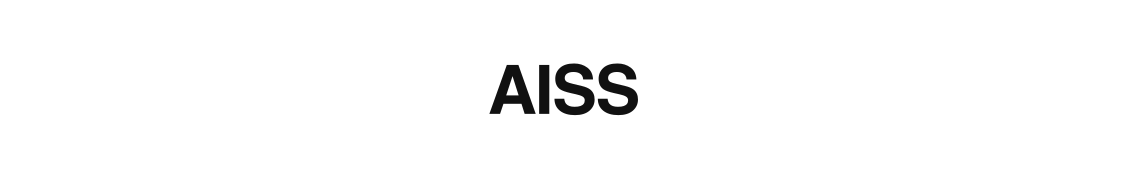
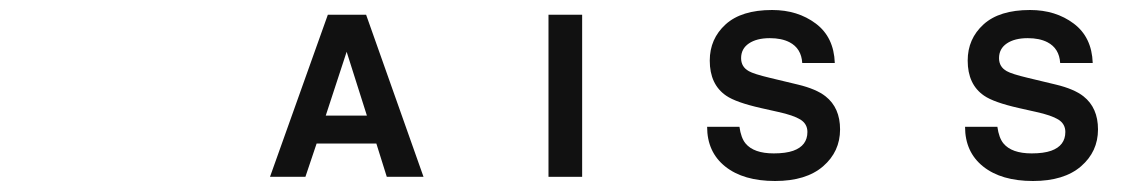
Enlarge AISS social covers and clear LinkedIn profile picture

diff --git a/brand-package/README.md b/brand-package/README.md
@@ -31,4 +31,4 @@ These assets preserve the existing website identity. The yarn mark is a shared o
 
 ## Social and video templates
 
-The `social` folder contains LinkedIn and X banners. Covers show only “AISS”, with no yarn mark, tagline, or domain. The `video` folder contains 1920 × 1080 title and end cards. SVG files remain editable; PNG files are ready to use. Replace the bracketed topic on the title card before export. Use the AISS logo and keep the domain visible. The organization name remains AI Said Simply.
+The `social` folder contains LinkedIn and X banners. Covers show only “AISS”, with no yarn mark, tagline, or domain. Large outlined Helvetica letters fill the cover height and spread across its width, with a narrow white margin. The LinkedIn cover leaves space for the profile picture on the left so all four letters stay visible. The `video` folder contains 1920 × 1080 title and end cards. SVG files remain editable; PNG files are ready to use. Replace the bracketed topic on the title card before export. Use the AISS logo and keep the domain visible. The organization name remains AI Said Simply.

diff --git a/docs/rebrand-launch-checklist.md b/docs/rebrand-launch-checklist.md
@@ -103,3 +103,8 @@ Final inbound check: ImprovMX shows FORWARDED for kaustubh, contact and Christin
 ## Visual revision — 5 November 2026
 
 The user requested the earlier abbreviated visual style. Website wordmarks, outlined logo exports, social covers, Word headers, and video cards now use AISS. The full organization name and all content remain AI Said Simply. Social covers retain plain white backgrounds with only AISS. The same yarn-only avatars remain. X and LinkedIn covers were saved; the X account now uses @AISaidSimply with eleven followers. The website contact link now targets the new handle. Shared Drive assets and ZIP were overwritten in place with the same access.
+
+
+## Social cover size — 2026-11-05
+
+The user requested larger AISS letters on LinkedIn and X. Both live covers now use approximately 90% of the cover height. LinkedIn leaves space at the left for the profile picture, and the public view confirms all four letters remain visible. X fills nearly the full width. The shared Drive source files, PNG exports, README, and ZIP match these live covers.

diff --git a/docs/brand-direction.md b/docs/brand-direction.md
@@ -85,3 +85,7 @@ Respondent: https://docs.google.com/forms/d/e/1FAIpQLSfI143yyq1QOhyMCH-bKztpuIgB
 ## AISS visual abbreviation — 2026-11-05
 
 Use AISS in the website wordmark, logo exports, and social covers. This adapts the earlier AISSS design to the new name. Keep AI Said Simply as the organization name, accessible label, and ordinary text. Covers contain only AISS on white, with no icon, subtitle, or link.
+
+## Social cover scale — 2026-11-05
+
+The user requested AISS to fill the entire LinkedIn and X backgrounds. Use large outlined Helvetica letters across each white cover, approximately 90% of its height. X uses 94% of the cover width. LinkedIn reserves the lower-left profile-picture area and fills the remaining width so the A stays readable. Keep small outer margins and only the AISS letters. Distribute the letters without distorting the glyphs.
